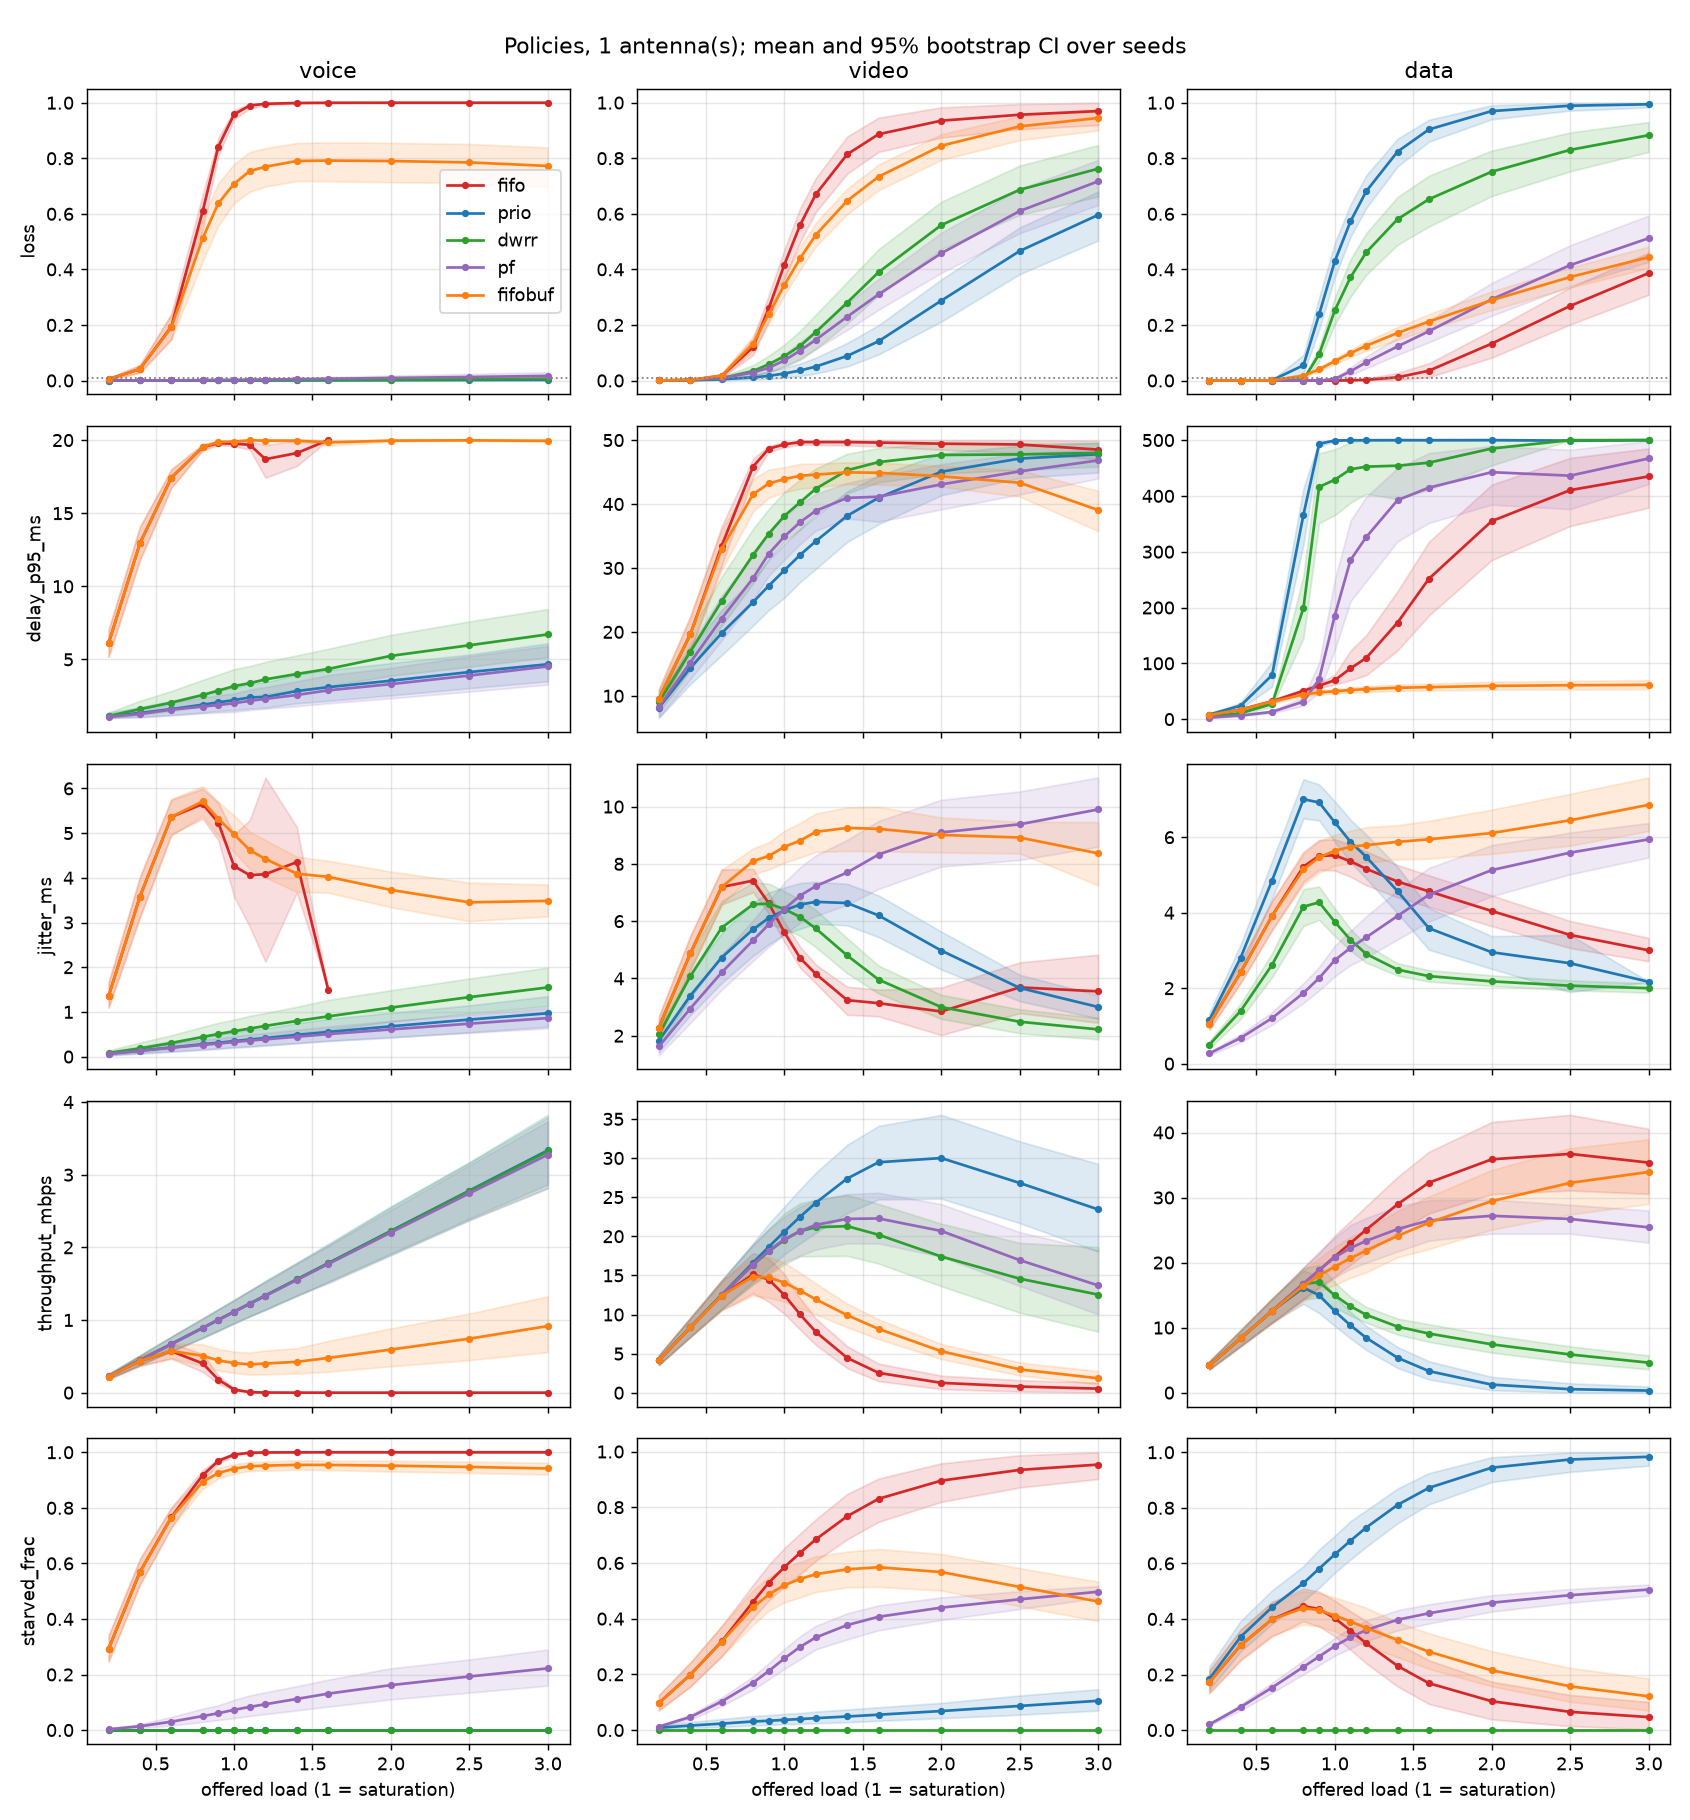
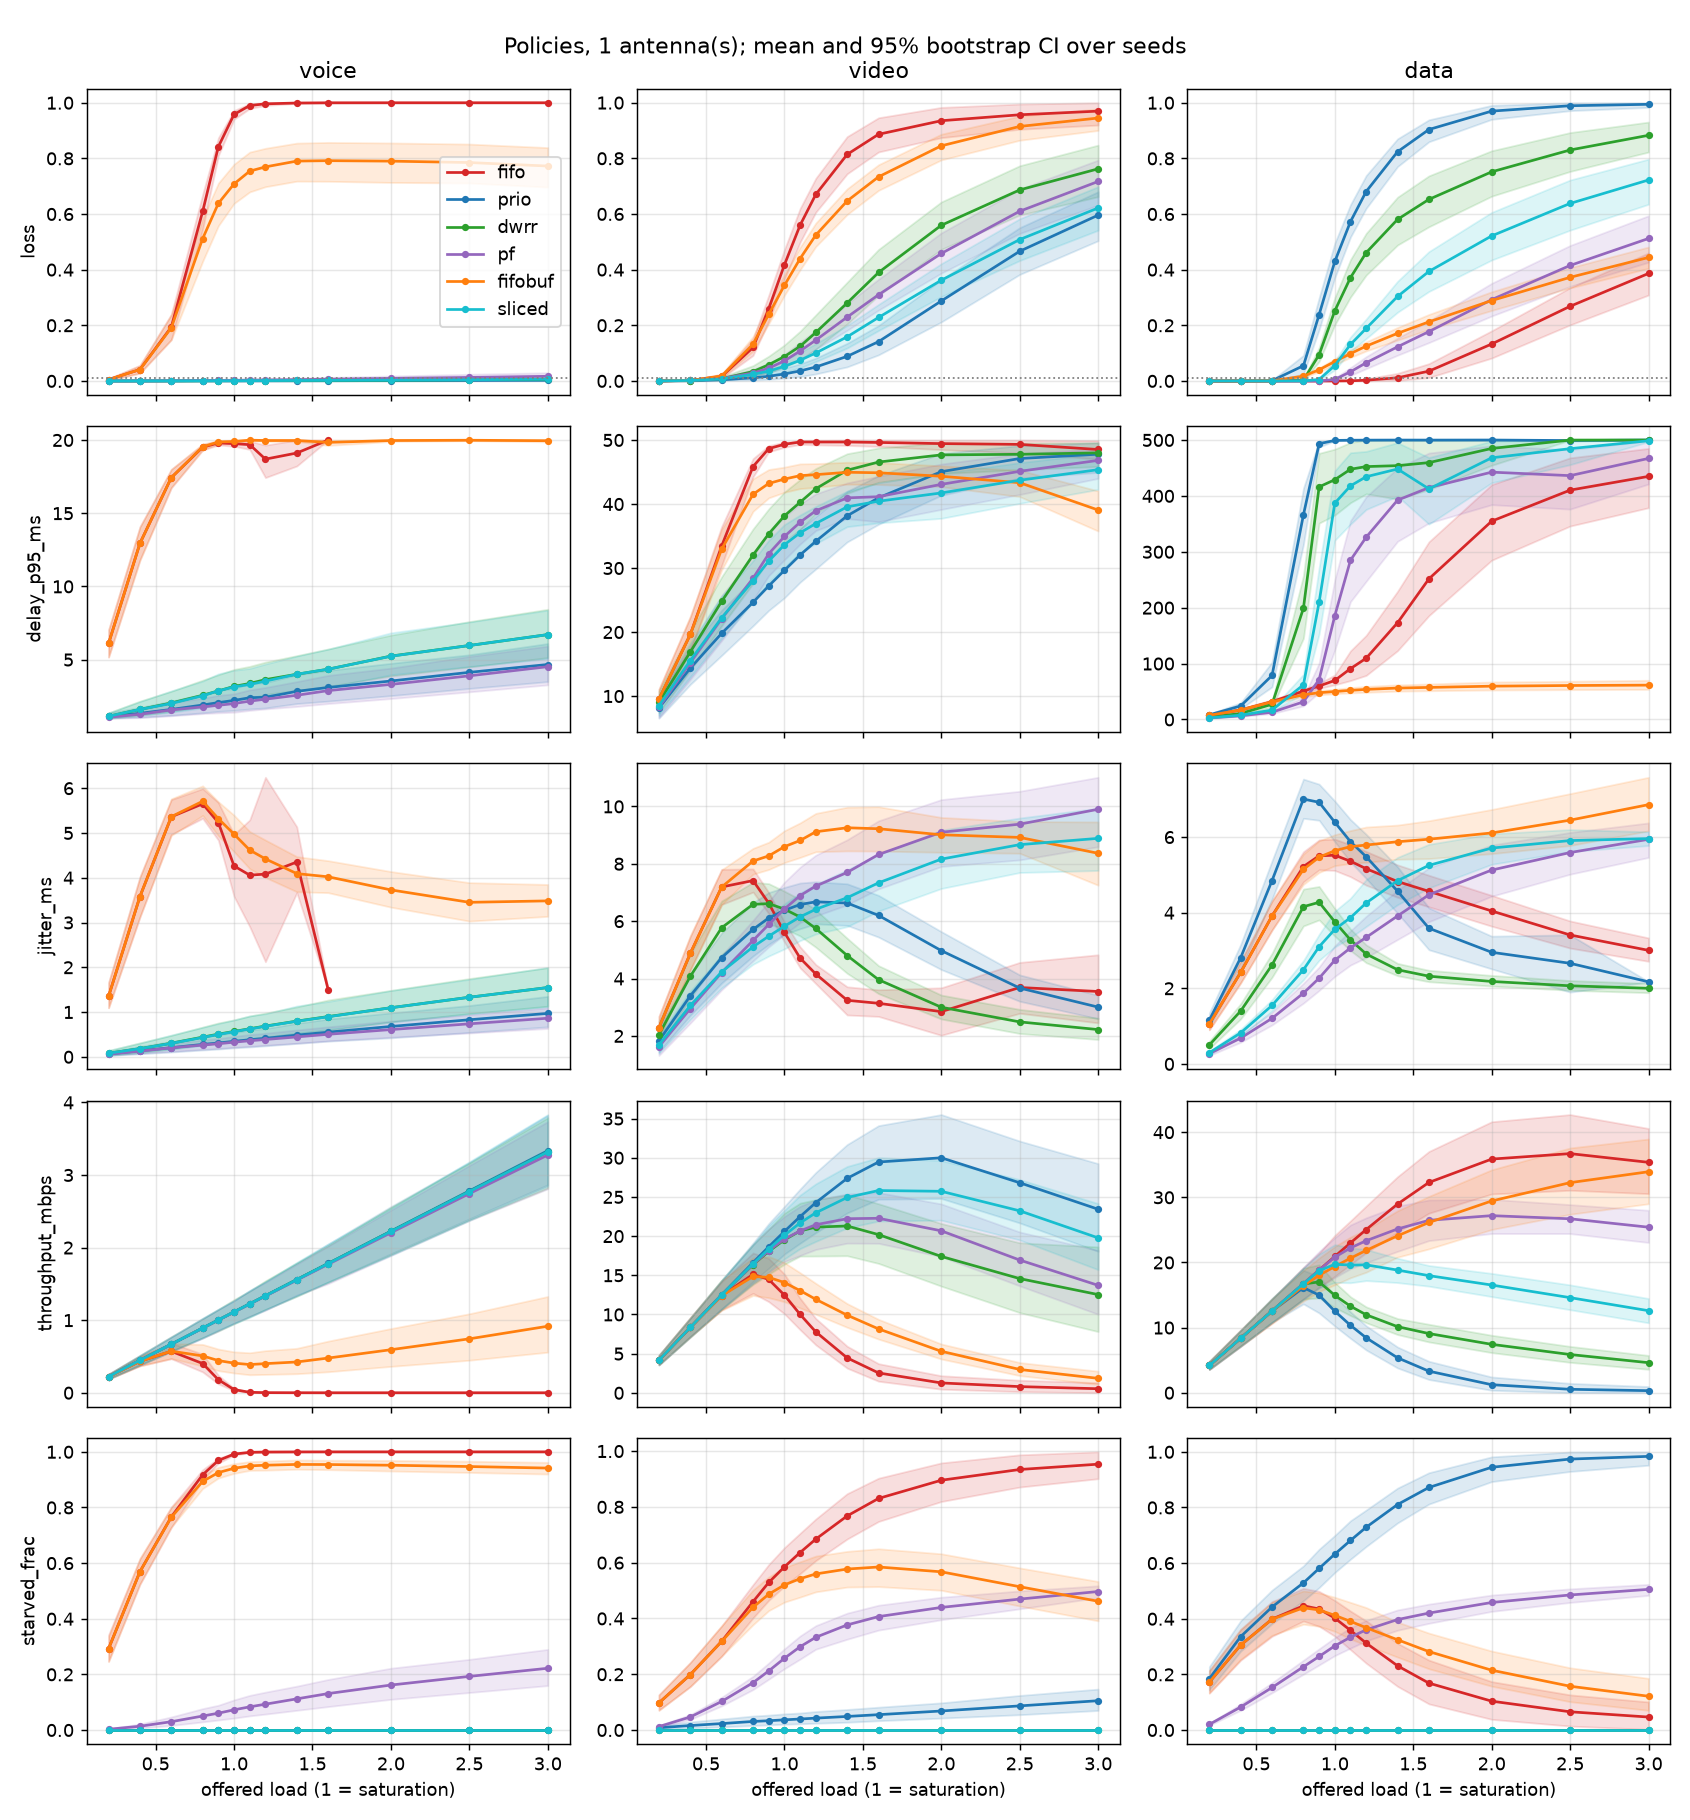
Added Hierarchical slicing and compared with the other methods

diff --git a/sim/policies.py b/sim/policies.py
@@ -146,4 +146,75 @@ class ProportionalFair(Policy):
             self.avg = (1 - self.beta) * self.avg + self.beta * served_bits
 
 
-POLICIES = {"fifo": FIFO, "prio": StrictPriority, "dwrr": DWRR, "pf": ProportionalFair}
+class HierarchicalSliceScheduler(Policy):
+    """Hierarchical 5G Slice Scheduler:
+    Tier 1 (Inter-slice): DWRR across slices (Voice, Video, Data) enforcing SLA quotas and 0% starvation.
+    Tier 2 (Intra-slice): Voice served oldest-first (strict delay protection); video and data served
+    via Proportional Fair within each slice to harvest multi-user diversity.
+    """
+
+    name = "sliced"
+
+    def __init__(self, weights=(8, 4, 2), beta: float = 0.01):
+        self.quantum = np.asarray(weights, dtype=float)
+        self.deficit = np.zeros(len(CLASSES))
+        self.start = 0
+        self.beta = beta
+        self.avg: np.ndarray | None = None
+
+    def allocate(self, n_prbs, st):
+        if self.avg is None:
+            self.avg = np.ones(len(st.queue_bits))
+        alloc = np.zeros(len(st.queue_bits), dtype=int)
+        budget = n_prbs
+        need = st.need
+        members = [np.flatnonzero(st.user_class == c) for c in range(len(CLASSES))]
+
+        while budget > 0:
+            any_pending = False
+            for k in range(len(CLASSES)):
+                c = (self.start + k) % len(CLASSES)
+                pending = [u for u in members[c] if need[u] > alloc[u]]
+                if not pending:
+                    self.deficit[c] = 0.0
+                    continue
+                any_pending = True
+                self.deficit[c] += self.quantum[c]
+                grant = min(int(self.deficit[c]), budget)
+
+                # Tier 2: Intra-slice selection
+                if c == 0:
+                    # Voice: Delay-sensitive, oldest HOL packet first
+                    order = sorted(pending, key=lambda u: (st.hol_arrival[u], u))
+                else:
+                    # Video & Data: Opportunistic Proportional Fair within the slice
+                    order = sorted(
+                        pending,
+                        key=lambda u: (-st.bits_per_prb[u] / max(self.avg[u], 1e-6), u),
+                    )
+
+                left = _fill(order, need, grant, alloc)
+                used = grant - left
+                budget -= used
+                self.deficit[c] -= used
+                if all(need[u] <= alloc[u] for u in members[c]):
+                    self.deficit[c] = 0.0
+                if budget == 0:
+                    break
+            if not any_pending:
+                break
+        self.start = (self.start + 1) % len(CLASSES)
+        return alloc
+
+    def update(self, served_bits):
+        if self.avg is not None:
+            self.avg = (1 - self.beta) * self.avg + self.beta * served_bits
+
+
+POLICIES = {
+    "fifo": FIFO,
+    "prio": StrictPriority,
+    "dwrr": DWRR,
+    "pf": ProportionalFair,
+    "sliced": HierarchicalSliceScheduler,
+}

diff --git a/tests/test_sim.py b/tests/test_sim.py
@@ -114,6 +114,39 @@ def test_shared_buffer_tail_drops_all_classes_alike():
     assert buf.loc["data", "loss"] > old.loc["data", "loss"]
 
 
+def test_hierarchical_slice_scheduler_intra_and_inter_slice():
+    # 2 voice users (class 0), 2 data users (class 2)
+    # Voice should be served oldest-first within voice slice;
+    # Data should be served Proportional Fair (better channel first) within data slice.
+    from sim.policies import HierarchicalSliceScheduler
+    sliced = HierarchicalSliceScheduler(weights=(10, 5, 5))
+    classes = np.array([0, 0, 2, 2])
+    # Users:
+    # 0 (voice): backlog 500 bits, hol 10, rate 100
+    # 1 (voice): backlog 500 bits, hol 5 (older!), rate 100
+    # 2 (data): backlog 1000 bits, hol 0, rate 100
+    # 3 (data): backlog 1000 bits, hol 0, rate 300 (better channel!)
+    st = SlotState(
+        queue_bits=np.array([500.0, 500.0, 1000.0, 1000.0]),
+        hol_arrival=np.array([10.0, 5.0, 0.0, 0.0]),
+        bits_per_prb=np.array([100.0, 100.0, 100.0, 300.0]),
+        user_class=classes,
+    )
+    # When budget is tight (12 PRBs total):
+    # Voice slice (10 PRB need) gets 10 PRBs: user 1 gets 5, user 0 gets 5.
+    # Data slice gets remaining 2 PRBs: user 3 (rate 300) gets 2 PRBs, user 2 (rate 100) gets 0 PRBs.
+    alloc_tight = sliced.allocate(12, st)
+    assert alloc_tight[1] == 5
+    assert alloc_tight[0] == 5
+    assert alloc_tight[3] == 2
+    assert alloc_tight[2] == 0
+
+    # With full budget (50 PRBs), all queues are emptied (work-conserving)
+    alloc_full = sliced.allocate(50, st)
+    assert alloc_full.sum() == st.need.sum()
+    assert (alloc_full == st.need).all()
+
+
 def test_buffer_never_exceeded():
     cell = _const_cell(1, 50, 100)
     arr = [Arrivals(np.array([0, 0, 0]), np.array([300.0, 300.0, 300.0]))]

diff --git a/analysis/report.py b/analysis/report.py
@@ -23,7 +23,7 @@ from sim.metrics import jain  # noqa: E402
 CLASSES = ["voice", "video", "data"]
 METRICS = ["loss", "delay_p95_ms", "jitter_ms", "throughput_mbps", "starved_frac"]
 COLORS = {"fifo": "tab:red", "prio": "tab:blue", "dwrr": "tab:green", "pf": "tab:purple",
-          "fifobuf": "tab:orange"}
+          "fifobuf": "tab:orange", "sliced": "tab:cyan"}
 EDGE_M, CENTRE_M = 200.0, 100.0
 
 
@@ -186,7 +186,8 @@ def main() -> None:
     s = summary(dc)
     s.to_csv(RESULTS / f"{a.name}_summary.csv", index=False)
     pairs = [("prio", "fifo"), ("dwrr", "fifo"), ("dwrr", "prio"), ("pf", "fifo"),
-             ("fifobuf", "fifo"), ("prio", "fifobuf"), ("dwrr", "fifobuf")]
+             ("fifobuf", "fifo"), ("prio", "fifobuf"), ("dwrr", "fifobuf"),
+             ("sliced", "dwrr"), ("sliced", "fifo"), ("sliced", "prio")]
     paired(dc, pairs).to_csv(RESULTS / f"{a.name}_paired.csv", index=False)
     capacity(dc).to_csv(RESULTS / f"{a.name}_capacity.csv", index=False)
     e = edge_centre(du)

diff --git a/sim/run.py b/sim/run.py
@@ -53,7 +53,7 @@ def simulate(policy: str, load: float, seed: int, antennas: int = 1, mix=(4, 3, 
                                  se[:, :-cqi_delay_slots]], axis=1)
         snr = (2.0 ** se - 1.0) / 10 ** (backoff_db / 10)
         rate_est = np.log2(1 + snr) * cfg.channel.prb_bw_hz * cfg.channel.slot_s
-    pol = POLICIES[base_policy](dwrr_weights) if base_policy == "dwrr" else POLICIES[base_policy]()
+    pol = POLICIES[base_policy](dwrr_weights) if base_policy in ("dwrr", "sliced") else POLICIES[base_policy]()
     buffer_bits = (None if buffer_ms is None
                    else buffer_ms * cfg.n_prbs * float(cell.bits_per_prb.mean()))
     res = run(cell, classes, arrivals, pol, cfg.n_prbs, buffer_bits, deadline_slots, rate_est)

diff --git a/analysis/article_figs.py b/analysis/article_figs.py
@@ -10,7 +10,7 @@ import pandas as pd  # noqa: E402
 from analysis.experiments import RESULTS  # noqa: E402
 
 COLORS = {"fifo": "tab:red", "fifobuf": "tab:orange", "prio": "tab:blue",
-          "dwrr": "tab:green", "pf": "tab:purple"}
+          "dwrr": "tab:green", "pf": "tab:purple", "sliced": "tab:cyan"}
 TITLES = {"voice": "Voz", "video": "Vídeo", "data": "Dados"}
 
 

diff --git a/analysis/experiments.py b/analysis/experiments.py
@@ -41,6 +41,9 @@ def _done(path: Path) -> set:
 
 
 def _append(df: pd.DataFrame, path: Path) -> None:
+    if path.exists():
+        cols = pd.read_csv(path, nrows=0).columns.tolist()
+        df = df[[c for c in cols if c in df.columns]]
     df.to_csv(path, mode="a", header=not path.exists(), index=False)
 
 

diff --git a/README.md b/README.md
@@ -34,7 +34,7 @@ flowchart LR
     subgraph SIM["2. Slotted Simulation (1 ms loop - sim/)"]
         direction TB
         ENG["Slot Engine (engine.py)<br/>Buffer, deadline drops,<br/>packet service & fragmentation"]
-        POL{{"Scheduling Policy (policies.py)<br/>FIFO, Priority, DWRR, PF<br/>(shares 50 PRBs)"}}
+        POL{{"Scheduling Policy (policies.py)<br/>FIFO, Priority, DWRR, PF, Sliced<br/>(shares 50 PRBs)"}}
         ENG -- "backlog, rates" --> POL
         POL -- "PRB allocation" --> ENG
     end
@@ -80,7 +80,7 @@ The simulator is a slotted (1 ms) discrete-time model of one gNB downlink, in fo
 3. **Simulation layer** (`sim/`).
    - `traffic.py` builds per-user packet arrivals (voice and video periodic, data Poisson) and a *saturation scale* so that load 1 fills the 50 PRBs at the realisation's mean rates.
    - `engine.run` is the slot loop. Each slot it (i) enqueues arrivals (tail drop if a shared buffer is set), (ii) drops head-of-line packets past their deadline, (iii) builds a `SlotState` (backlog, head-of-line arrival, bits per PRB, class) and asks the policy for a PRB allocation, (iv) serves each user's queue, fragmenting packets across slots, and (v) records the PRBs per class and the backlog. With `rate_est` set, the policy and the transmitter use the estimated rate and a transmission fails (PRBs wasted, bits stay queued) when the true rate is lower.
-   - `policies.py` defines the `Policy` interface (`allocate`, `update`) and its implementations. A new policy only needs to implement `allocate` and be added to the `POLICIES` registry; the engine never looks inside it.
+   - `policies.py` defines the `Policy` interface (`allocate`, `update`) and its implementations (FIFO, Strict Priority, DWRR, Proportional Fair, and the 5G Hierarchical Slice Scheduler `sliced`). A new policy only needs to implement `allocate` and be added to the `POLICIES` registry; the engine never looks inside it.
    - `run.simulate` wires it all together, builds `rate_est` from a delayed SE and a back-off, and holds the variant registry (`fifobuf`), the DWRR weights, deadline and buffer overrides and the CLI.
    - `metrics.py` turns the `SimResult` into per-class and per-user tables (the first 1,000 and last 500 slots are excluded).
 4. **Experiment layer** (`analysis/`). `experiments.py`, `sensitivity.py` and `csi.py` are resumable sweeps over a `multiprocessing.Pool`: every `(configuration, seed)` job is independent and appends its rows to a CSV, keyed so completed jobs are skipped on restart. `report.py` and `stats.py` read the CSVs and produce bootstrap confidence intervals, paired differences, SLA capacity, edge/centre and fairness tables and the plots in `results/`.
